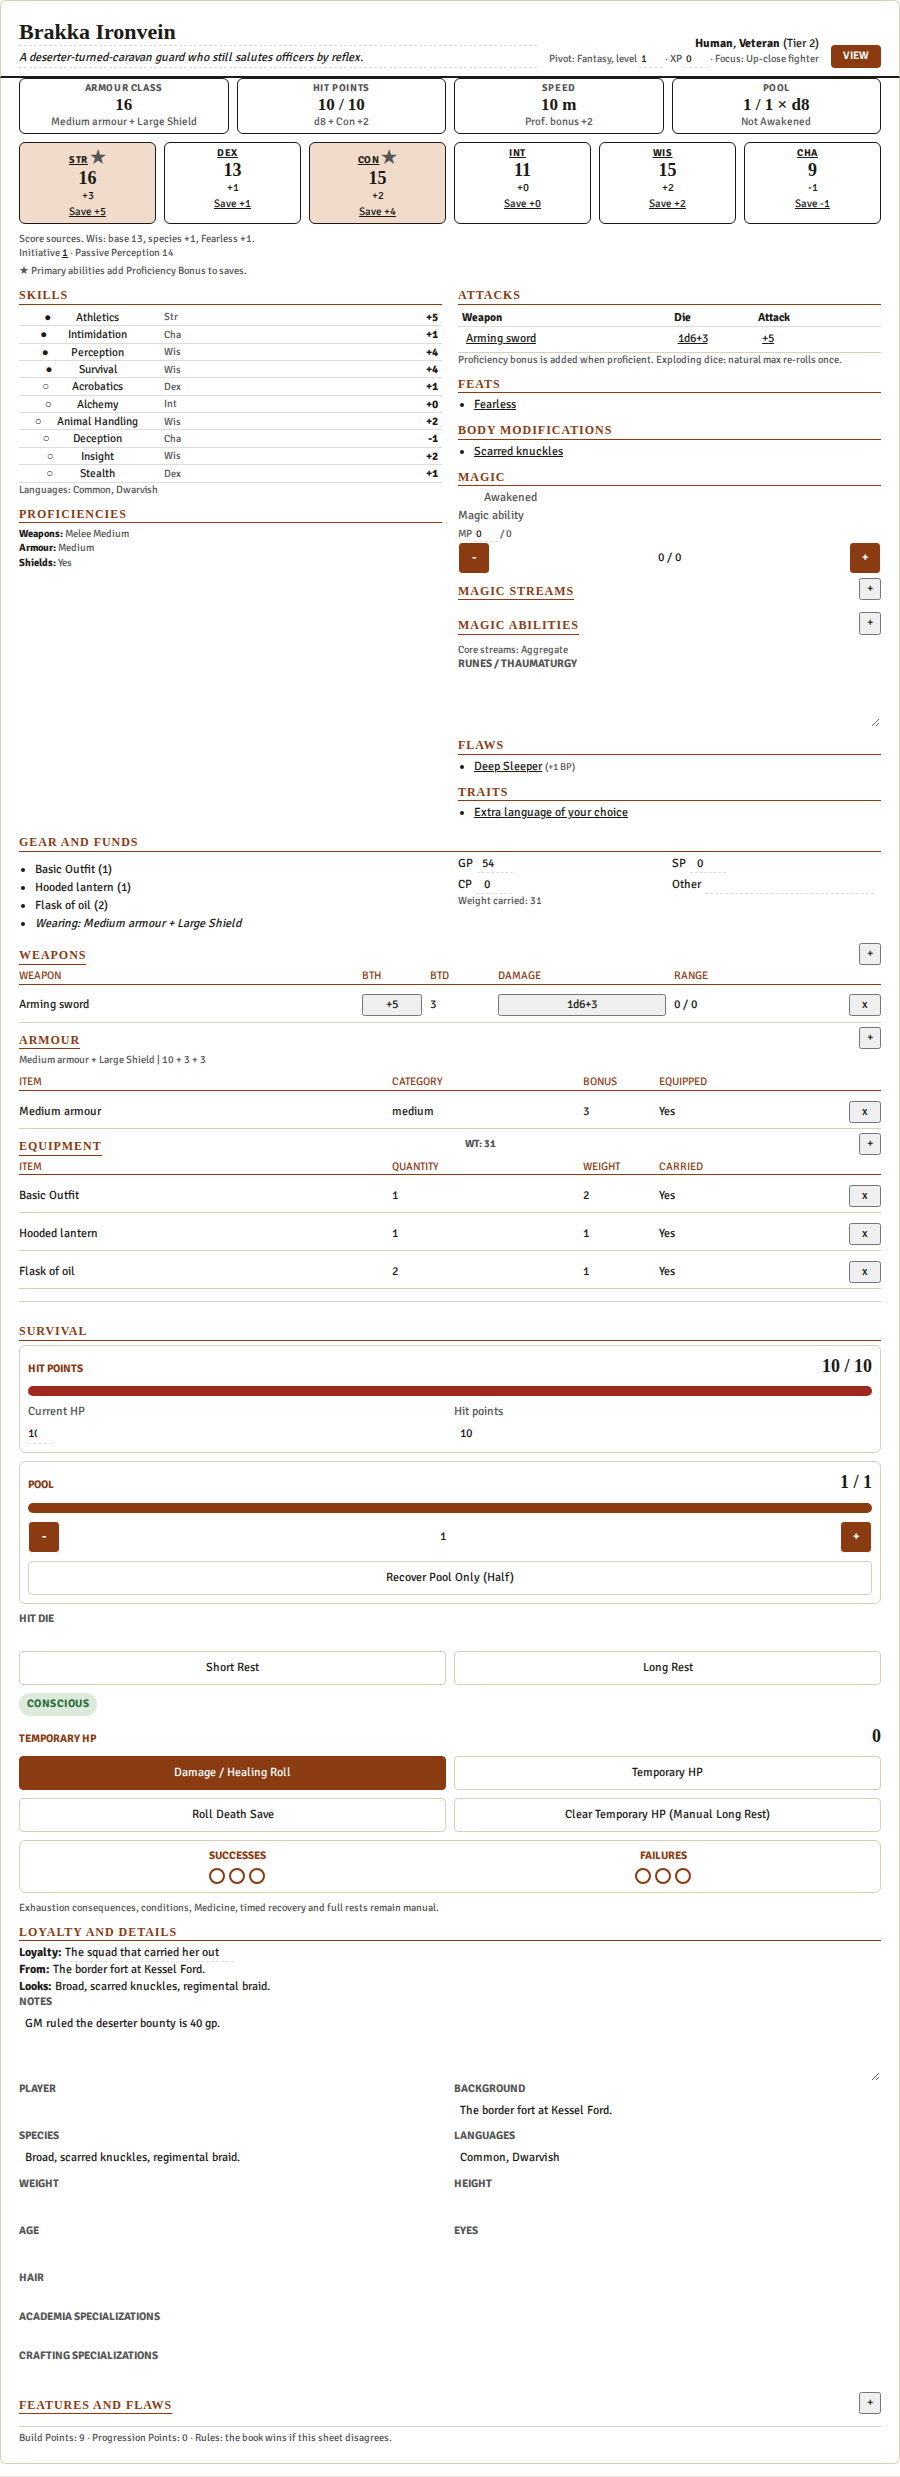
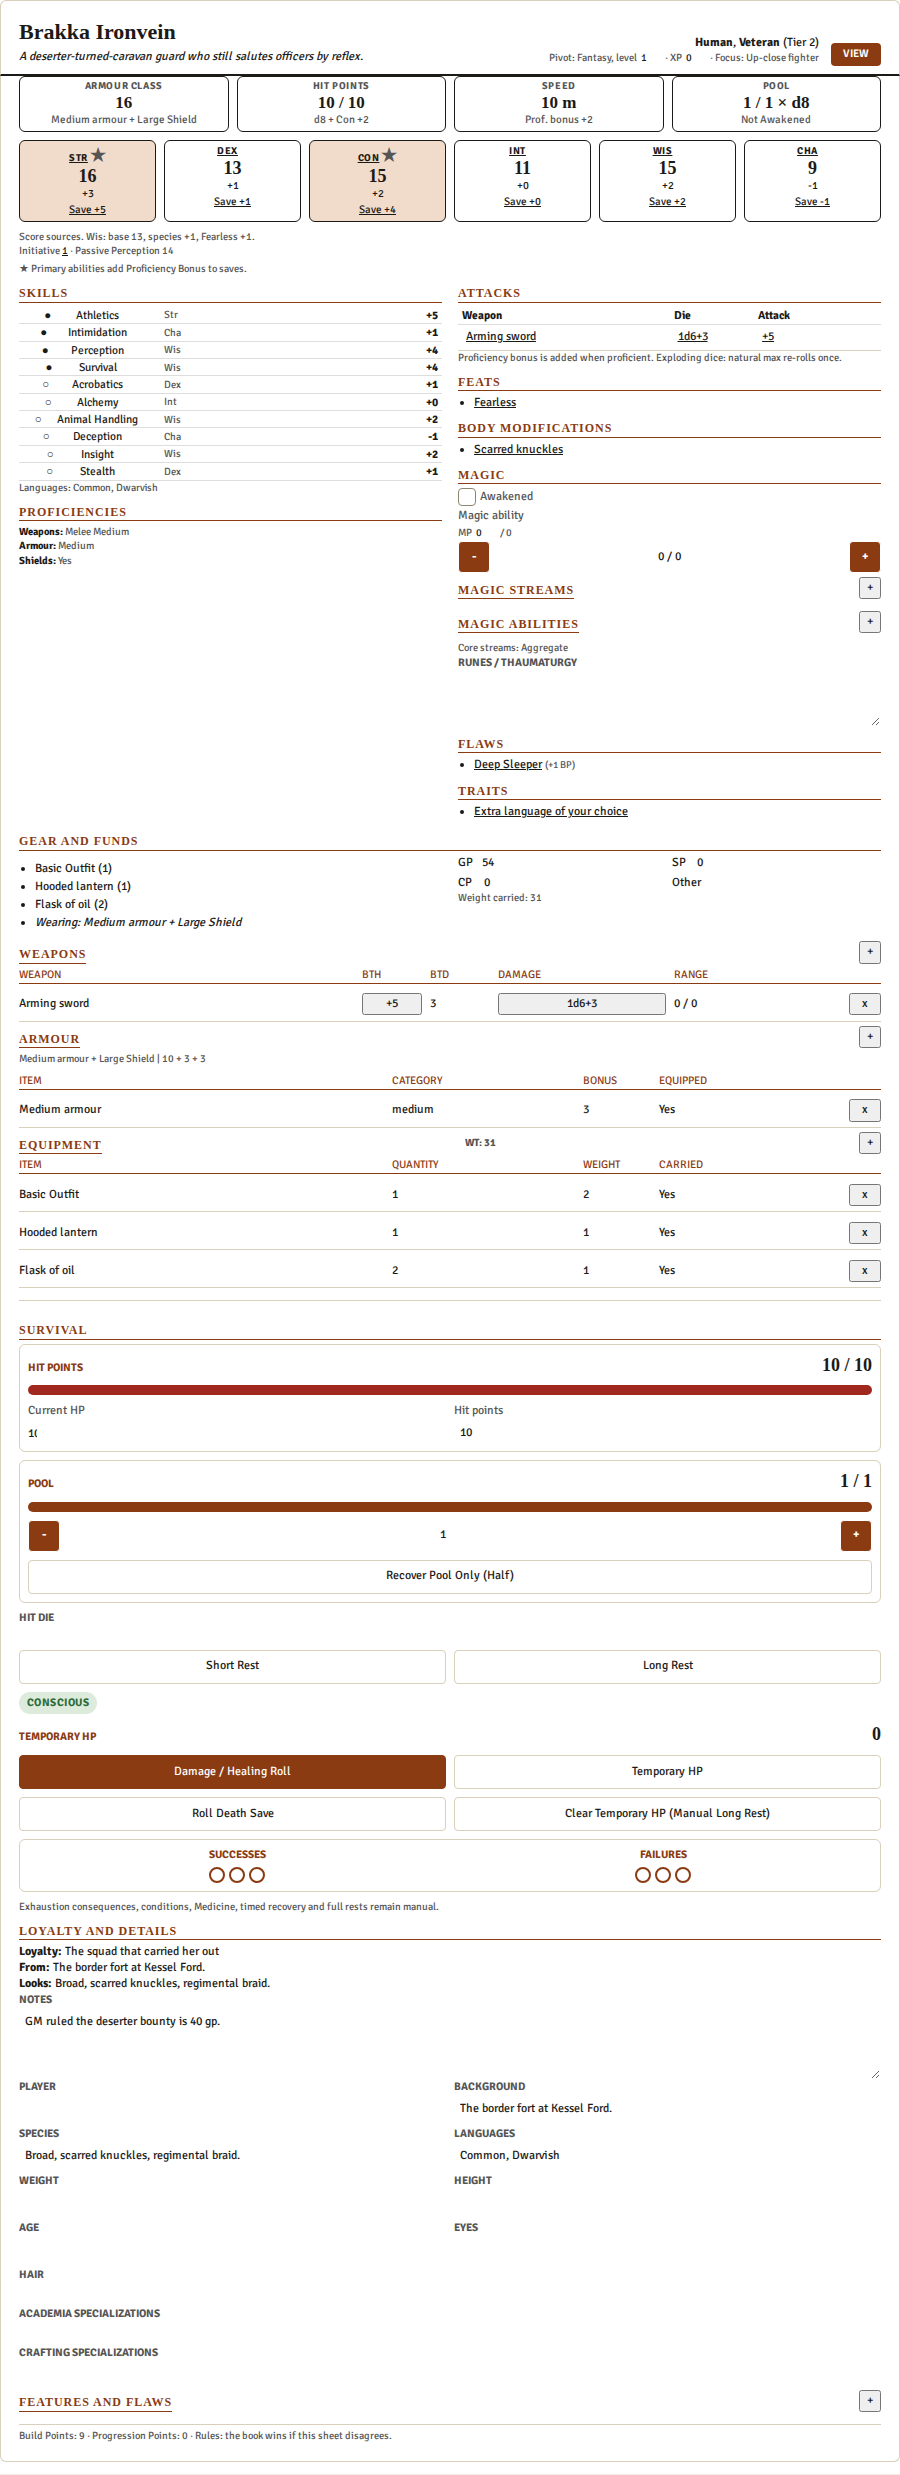
fix: keep sheet checkboxes and legal HP edits
The form reset was flattening the Awakened checkbox along with text fields. Current HP written to zero now moves survival status so the next health action still validates.

diff --git a/src/runtime/actor-guards.ts b/src/runtime/actor-guards.ts
@@ -1,11 +1,49 @@
-import { validAmount } from "../rules/survival";
+import { survivalStatusForHpEdit, validAmount } from "../rules/survival";
 import { warn } from "./ui";
+
+function persistedHp(
+  changes: Record<string, unknown>,
+  nestedHp: { value?: unknown } | undefined,
+): number | undefined {
+  if (typeof changes["system.attributes.hp.value"] === "number") {
+    return changes["system.attributes.hp.value"];
+  }
+  if (typeof nestedHp?.value === "number") return nestedHp.value;
+  return undefined;
+}
+
+function writeHpEditStatus(changes: Record<string, unknown>, status: "alive" | "dying"): void {
+  const fields = {
+    "system.attributes.deathSaves.status": status,
+    "system.attributes.deathSaves.successes": 0,
+    "system.attributes.deathSaves.failures": 0,
+  };
+  const nested = changes.system;
+  if (nested && typeof nested === "object") {
+    const system = nested as { attributes?: Record<string, unknown> };
+    const attributes = (system.attributes ??= {});
+    const deathSaves = (attributes.deathSaves ??= {}) as Record<string, unknown>;
+    deathSaves.status = status;
+    deathSaves.successes = 0;
+    deathSaves.failures = 0;
+  }
+  if (typeof changes["system.attributes.hp.value"] === "number" || !nested) {
+    Object.assign(changes, fields);
+  }
+}
+
 export function guardHpMaximum(
   actor: { system?: unknown },
   changes: Record<string, unknown>,
 ): false | undefined {
   const system = actor.system as
-    { attributes?: { hp?: { value?: number; max?: number } } } | undefined;
+    | {
+        attributes?: {
+          hp?: { value?: number; max?: number };
+          deathSaves?: { status?: string };
+        };
+      }
+    | undefined;
   const nested = changes.system as
     { attributes?: { hp?: { value?: unknown; max?: unknown } } } | undefined;
   const currentValue = system?.attributes?.hp?.value ?? 0;
@@ -27,10 +65,20 @@ export function guardHpMaximum(
   }
 
   const max = changes["system.attributes.hp.max"] ?? nestedHp?.max;
-  if (max === undefined) return;
-  const hp = changes["system.attributes.hp.value"] ?? nestedHp?.value ?? currentValue;
-  if (!validAmount(max) || !validAmount(hp) || max < hp) {
-    warn("InvalidMaximum");
-    return false;
+  if (max !== undefined) {
+    const hp = changes["system.attributes.hp.value"] ?? nestedHp?.value ?? currentValue;
+    if (!validAmount(max) || !validAmount(hp) || max < hp) {
+      warn("InvalidMaximum");
+      return false;
+    }
   }
+
+  const nextHp = persistedHp(changes, nestedHp);
+  if (nextHp === undefined || !validAmount(nextHp) || !validAmount(nextMax)) return;
+  const nextStatus = survivalStatusForHpEdit(
+    system?.attributes?.deathSaves?.status,
+    nextHp,
+    nextMax,
+  );
+  if (nextStatus) writeHpEditStatus(changes, nextStatus);
 }

diff --git a/tests/runtime/actor-guards.test.ts b/tests/runtime/actor-guards.test.ts
@@ -15,3 +15,42 @@ it("clamps a current HP edit to the current maximum", () => {
   expect(guardHpMaximum(actor, changes)).toBeUndefined();
   expect(changes.system.attributes.hp.value).toBe(10);
 });
+
+it("sets dying when a current HP edit reaches zero", () => {
+  const actor = {
+    system: {
+      attributes: {
+        hp: { value: 4, max: 10 },
+        deathSaves: { status: "alive", successes: 1, failures: 2 },
+      },
+    },
+  };
+  const changes: {
+    system: {
+      attributes: {
+        hp: { value: number };
+        deathSaves?: { status?: string; successes?: number; failures?: number };
+      };
+    };
+  } = { system: { attributes: { hp: { value: 0 } } } };
+  expect(guardHpMaximum(actor, changes)).toBeUndefined();
+  expect(changes.system.attributes.hp.value).toBe(0);
+  expect(changes.system.attributes.deathSaves).toMatchObject({
+    status: "dying",
+    successes: 0,
+    failures: 0,
+  });
+});
+
+it("sets alive when a current HP edit rises above zero", () => {
+  const actor = {
+    system: {
+      attributes: { hp: { value: 0, max: 10 }, deathSaves: { status: "dead" } },
+    },
+  };
+  const changes: Record<string, unknown> = { "system.attributes.hp.value": 3 };
+  expect(guardHpMaximum(actor, changes)).toBeUndefined();
+  expect(changes["system.attributes.deathSaves.status"]).toBe("alive");
+  expect(changes["system.attributes.deathSaves.successes"]).toBe(0);
+  expect(changes["system.attributes.deathSaves.failures"]).toBe(0);
+});

diff --git a/tests/rules/survival.test.ts b/tests/rules/survival.test.ts
@@ -1,5 +1,10 @@
 import { describe, expect, it } from "vitest";
-import { applyHealth, resolveDeathSave, type SurvivalState } from "../../src/rules/survival";
+import {
+  applyHealth,
+  resolveDeathSave,
+  survivalStatusForHpEdit,
+  type SurvivalState,
+} from "../../src/rules/survival";
 const state = (patch: Partial<SurvivalState> = {}): SurvivalState => ({
   hp: 10,
   max: 20,
@@ -10,6 +15,14 @@ const state = (patch: Partial<SurvivalState> = {}): SurvivalState => ({
   ...patch,
 });
 describe("HP and survival", () => {
+  it("moves a direct HP edit onto a legal status", () => {
+    expect(survivalStatusForHpEdit("alive", 0, 10)).toBe("dying");
+    expect(survivalStatusForHpEdit("alive", 0, 0)).toBeUndefined();
+    expect(survivalStatusForHpEdit("dying", 0, 10)).toBeUndefined();
+    expect(survivalStatusForHpEdit("dead", 4, 10)).toBe("alive");
+    expect(survivalStatusForHpEdit("unconfirmed", 0, 10)).toBeUndefined();
+    expect(survivalStatusForHpEdit("alive", 4, 10)).toBeUndefined();
+  });
   it("uses temp before HP and preserves source", () => {
     const s = state();
     expect(applyHealth(s, "damage", 8)).toMatchObject({ temp: 0, hp: 7 });

diff --git a/styles/pivot-fantasy.css b/styles/pivot-fantasy.css
@@ -1629,7 +1629,7 @@
   width: 100%;
 }
 
-.pivot-fantasy.sheet.actor.character .pf-print :is(input, select, textarea) {
+.pivot-fantasy.sheet.actor.character .pf-print :is(input:not([type="checkbox"]), select, textarea) {
   appearance: none;
   background: transparent;
   border: 0;
@@ -1639,12 +1639,30 @@
   min-height: 0;
 }
 
-.pivot-fantasy.sheet.actor.character .pf-print :is(input, select, textarea):disabled {
+.pivot-fantasy.sheet.actor.character
+  .pf-print
+  :is(input:not([type="checkbox"]), select, textarea):disabled {
   background: transparent;
   border-color: transparent;
   box-shadow: none;
   color: var(--pf-sheet-ink);
   opacity: 1;
+}
+
+.pivot-fantasy.sheet.actor.character .pf-print .pf-check input[type="checkbox"]:not(.pf-sr) {
+  appearance: none;
+  background: var(--pf-bg);
+  border: 1px solid var(--pf-line-strong);
+  border-radius: var(--pf-radius-sm);
+  box-shadow: none;
+  box-sizing: border-box;
+  display: grid;
+  flex: 0 0 18px;
+  height: 18px;
+  margin: 0;
+  min-height: 0;
+  place-content: center;
+  width: 18px;
 }
 
 .pivot-fantasy.sheet.actor.character .pf-print .pf-inline {

diff --git a/src/rules/survival.ts b/src/rules/survival.ts
@@ -12,6 +12,16 @@ export type HealthKind = "damage" | "healing" | "temp";
 export function validAmount(value: unknown): value is number {
   return typeof value === "number" && Number.isSafeInteger(value) && value >= 0;
 }
+
+export function survivalStatusForHpEdit(
+  status: string | undefined,
+  hp: number,
+  max: number,
+): "alive" | "dying" | undefined {
+  if (hp === 0 && status === "alive" && max > 0) return "dying";
+  if (hp > 0 && (status === "dying" || status === "stable" || status === "dead")) return "alive";
+  return undefined;
+}
 export function validateSurvival(s: SurvivalState): void {
   if (
     ![s.hp, s.max, s.temp, s.successes, s.failures].every(validAmount) ||
